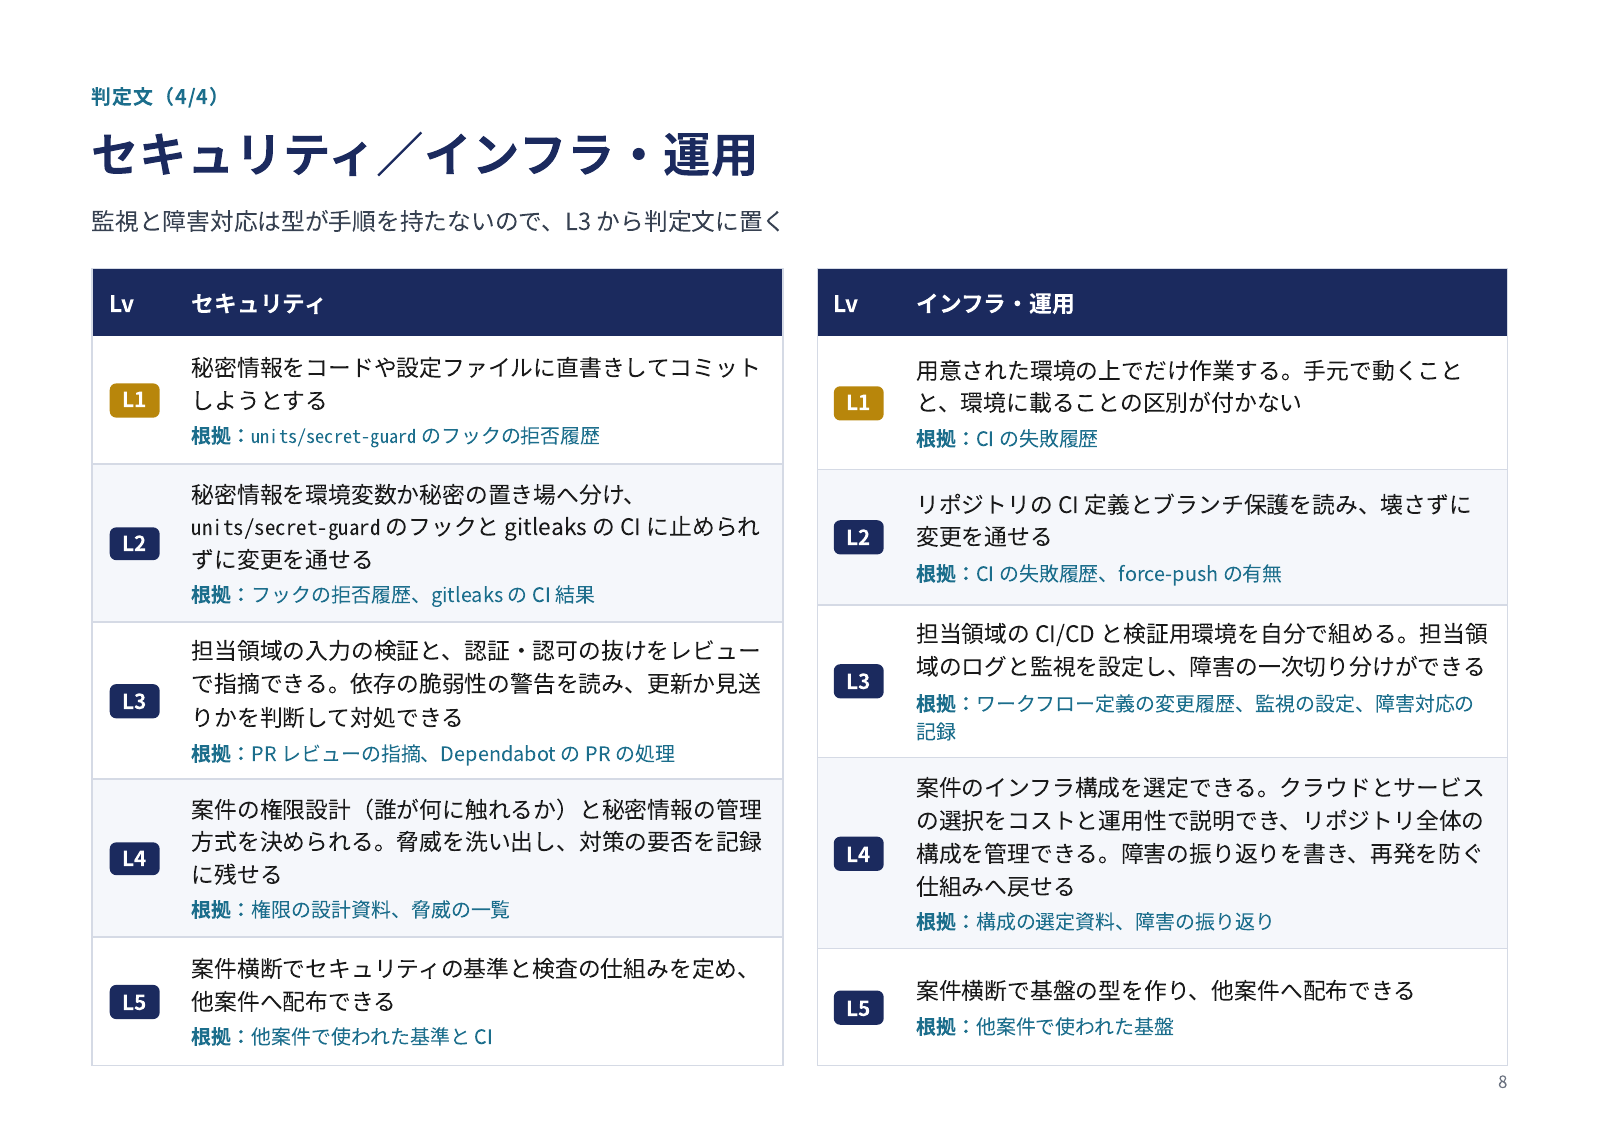
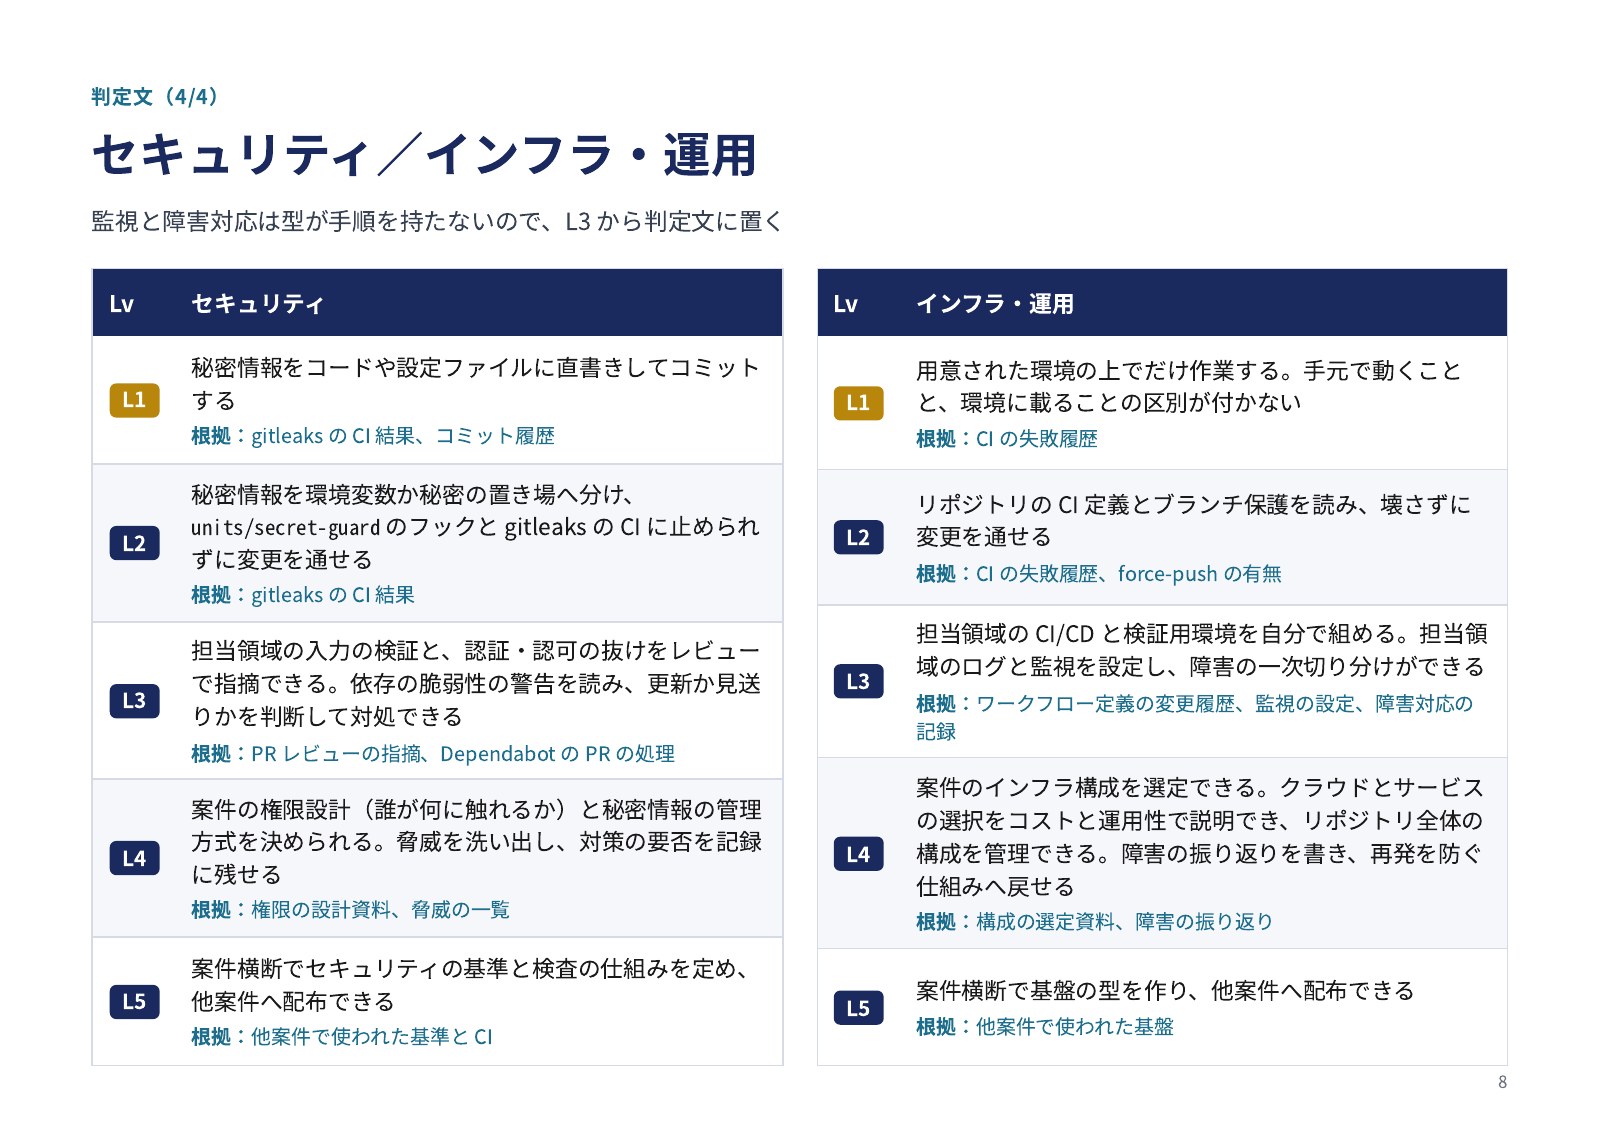
fix: Point security L1/L2 evidence at records that persist
セキュリティの L1・L2 の読むものを、記録が残らないフックの拒否履歴から gitleaks の CI 結果とコミット履歴に替えた。adapt.md の読み替え表に Dependabot の PR と監視の設定を足し、段階の1文を Issue の文に揃えた。

diff --git a/ladder/slides.html b/ladder/slides.html
@@ -325,8 +325,8 @@ li::before{ content:""; position:absolute; left:.4mm; top:calc(.5lh - .75mm);
       <table class="eq" style="flex:1">
         <thead><tr><th style="width:14mm">Lv</th><th>セキュリティ</th></tr></thead>
         <tbody>
-          <tr><td><span class="lv out">L1</span></td><td>秘密情報をコードや設定ファイルに直書きしてコミットしようとする<div class="src"><code>units/secret-guard</code> のフックの拒否履歴</div></td></tr>
-          <tr><td><span class="lv">L2</span></td><td>秘密情報を環境変数か秘密の置き場へ分け、<code>units/secret-guard</code> のフックと gitleaks の CI に止められずに変更を通せる<div class="src">フックの拒否履歴、gitleaks の CI 結果</div></td></tr>
+          <tr><td><span class="lv out">L1</span></td><td>秘密情報をコードや設定ファイルに直書きしてコミットする<div class="src">gitleaks の CI 結果、コミット履歴</div></td></tr>
+          <tr><td><span class="lv">L2</span></td><td>秘密情報を環境変数か秘密の置き場へ分け、<code>units/secret-guard</code> のフックと gitleaks の CI に止められずに変更を通せる<div class="src">gitleaks の CI 結果</div></td></tr>
           <tr><td><span class="lv">L3</span></td><td>担当領域の入力の検証と、認証・認可の抜けをレビューで指摘できる。依存の脆弱性の警告を読み、更新か見送りかを判断して対処できる<div class="src">PR レビューの指摘、Dependabot の PR の処理</div></td></tr>
           <tr><td><span class="lv">L4</span></td><td>案件の権限設計（誰が何に触れるか）と秘密情報の管理方式を決められる。脅威を洗い出し、対策の要否を記録に残せる<div class="src">権限の設計資料、脅威の一覧</div></td></tr>
           <tr><td><span class="lv">L5</span></td><td>案件横断でセキュリティの基準と検査の仕組みを定め、他案件へ配布できる<div class="src">他案件で使われた基準と CI</div></td></tr>

diff --git a/ladder/docs/ladder.md b/ladder/docs/ladder.md
@@ -22,7 +22,7 @@
 | L4 | 案件の一領域を依頼元との接点ごと持ち、課題と進捗を自分で管理する |
 | L5 | 案件全体の設計・推進を担い、依頼元の課題設定に関与する。得た型を他の案件へ渡す |
 
-**段階は、上流・提案と関係者調整、AI開発のワークフロー運用のうち低いほうで決める。ほかの軸は段階に入れない。**
+**段階は、上流・提案と関係者調整と AI開発のワークフロー運用の低いほうで決める。ほかの軸は段階に入れない。**
 委任範囲は依頼元に対して任せられる部分と、チームの型の中で任せられる部分からできている。
 前者を上流・提案と関係者調整、後者を AI開発のワークフロー運用が測り、どちらかが低ければ
 その高さまでしか任せられない。ドメイン理解は在籍の長さで上がるので、入れると長くいる人に実態より
@@ -143,8 +143,8 @@ sdlc-kit が監視と障害対応の手順を持たないためである。
 
 | Lv | 判定文 | 読むもの |
 |---|---|---|
-| L1 | 秘密情報をコードや設定ファイルに直書きしてコミットしようとする | `units/secret-guard` のフックの拒否履歴 |
-| L2 | 秘密情報を環境変数か秘密の置き場へ分け、`units/secret-guard` のフックと gitleaks の CI に止められずに変更を通せる | フックの拒否履歴、gitleaks の CI 結果 |
+| L1 | 秘密情報をコードや設定ファイルに直書きしてコミットする | gitleaks の CI 結果、コミット履歴 |
+| L2 | 秘密情報を環境変数か秘密の置き場へ分け、`units/secret-guard` のフックと gitleaks の CI に止められずに変更を通せる | gitleaks の CI 結果 |
 | L3 | 担当領域の入力の検証と、認証・認可の抜けをレビューで指摘できる。依存の脆弱性の警告を読み、更新か見送りかを判断して対処できる | PR レビューの指摘、Dependabot の PR の処理 |
 | L4 | 案件の権限設計（誰が何に触れるか）と秘密情報の管理方式を決められる。脅威を洗い出し、対策の要否を記録に残せる | 権限の設計資料、脅威の一覧 |
 | L5 | 案件横断でセキュリティの基準と検査の仕組みを定め、他案件へ配布できる | 他案件で使われた基準と CI |

diff --git a/ladder/docs/adapt.md b/ladder/docs/adapt.md
@@ -15,6 +15,8 @@
 | `docs/ops/` への変更 | 手順そのものを置いた場所 |
 | `units/secret-guard` のフックと gitleaks の CI | 秘密情報をコミットや push の前に止める仕組み |
 | マイグレーションのファイル | スキーマの変更を手順として残す場所 |
+| Dependabot の PR | 依存の脆弱性の警告が届く場所 |
+| 監視の設定 | 監視とアラートを定義した場所 |
 | 障害の振り返り | 障害の原因と再発を防ぐ手立てを書く場所 |
 | CI 定義とブランチ保護 | そのまま |
 
